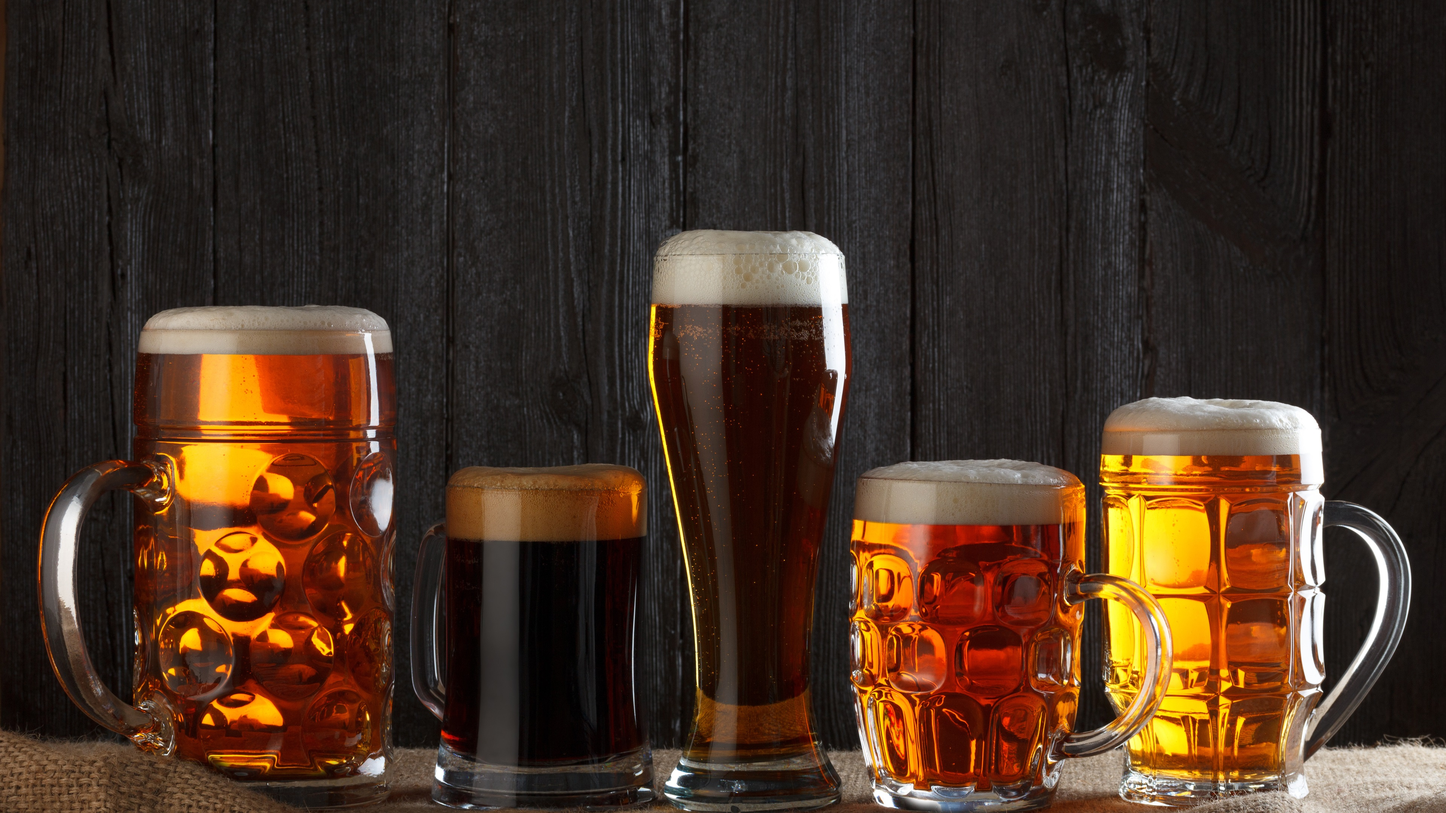
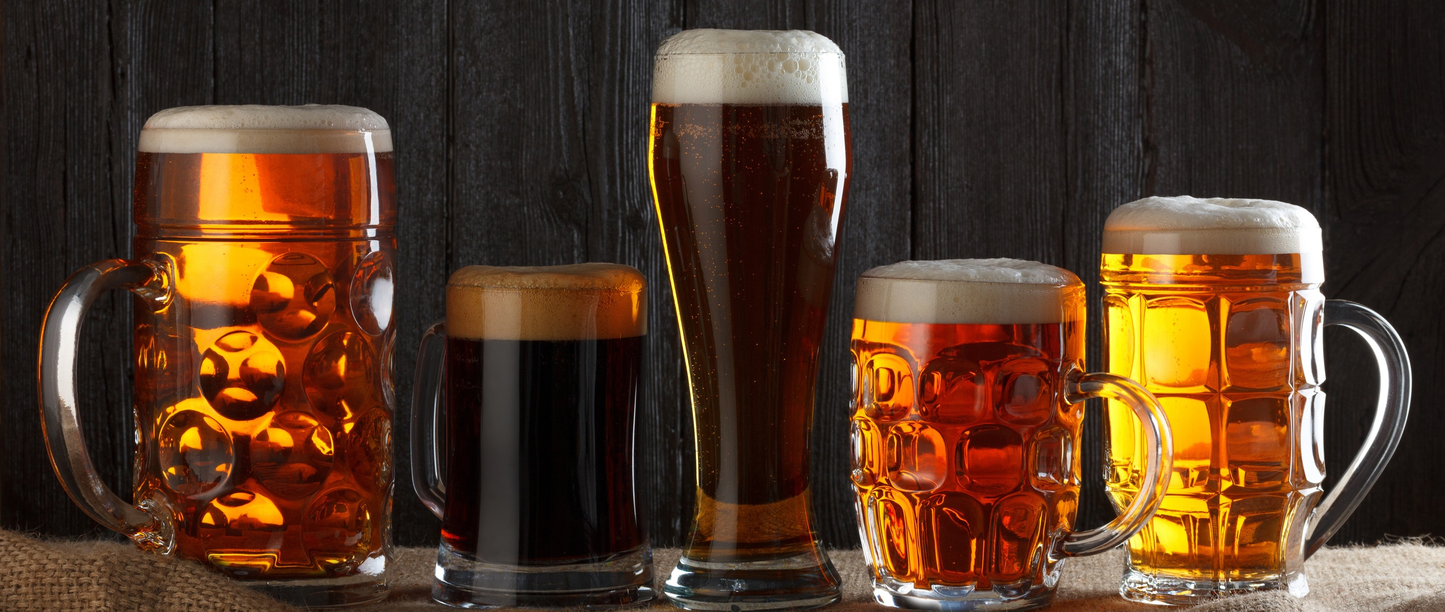
agregados fondos parallax

diff --git a/cerveceria/tp/templates/index.html b/cerveceria/tp/templates/index.html
@@ -57,7 +57,7 @@
   </nav>
 
   <!-- Header - set the background image for the header in the line below -->
-  <header class="py-5 bg-image-full">
+  <header class="py-5 bg-image-full bgpic1">
     <img class="logotipo img-fluid d-block mx-auto" src="/static/img/cerveweb_inverted.png" alt="">
   </header>
 
@@ -72,7 +72,7 @@
   </section>
 
   <!-- Image Section - set the background image for the header in the line below -->
-  <section class="py-5 bg-image-full" style="background-image: url('/static/img/14812.jpg');">
+  <section class="py-5 bg-image-full bgpic2">
     <!-- Put anything you want here! There is just a spacer below for demo purposes! -->
     <div style="height: 200px;"></div>
   </section>

diff --git a/cerveceria/tp/static/css/full-width-pics.css b/cerveceria/tp/static/css/full-width-pics.css
@@ -15,10 +15,23 @@ body {
   -o-background-size: cover;
 }
 
-.bg-image-full {
+.bgpic1 {
   background-image: url("/static/img/summer.jpg");
+  background-position: center top;
+}
+
+.bgpic2 {
+  background-image: url("/static/img/sword.jpg");
 }
 
 .logotipo {
   background-image: url("/static/img/logotipo.png");
+}
+
+.parallax, .bg-image-full {
+  min-height: 500px; 
+  background-attachment: fixed;
+  background-position: center;
+  background-repeat: no-repeat;
+  background-size: cover;
 }
